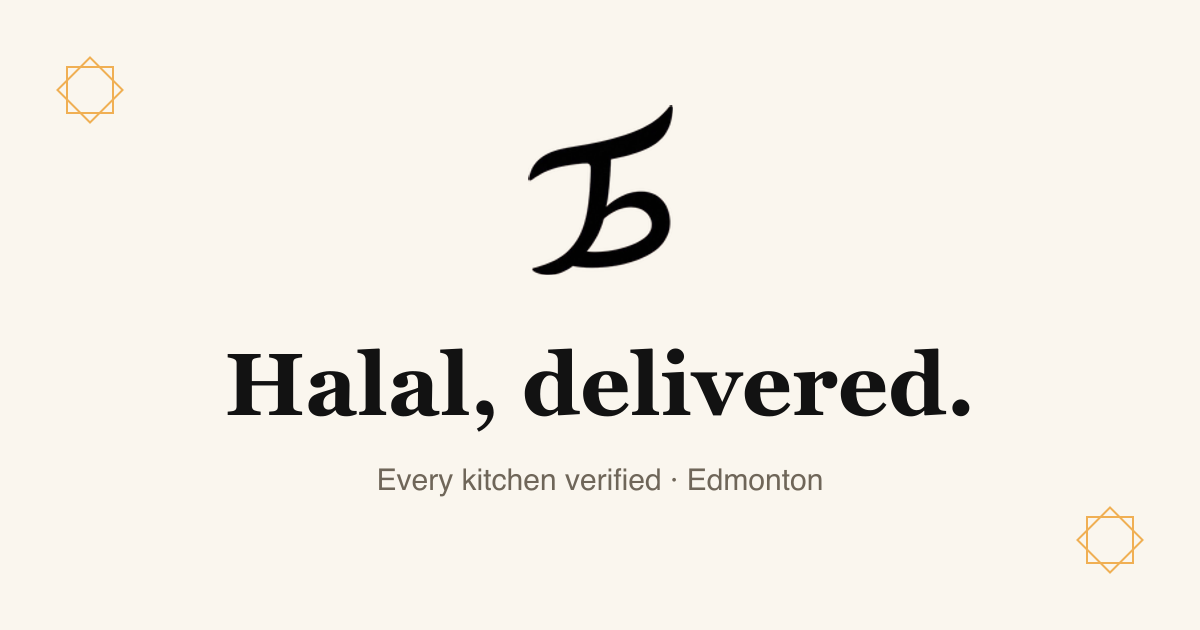
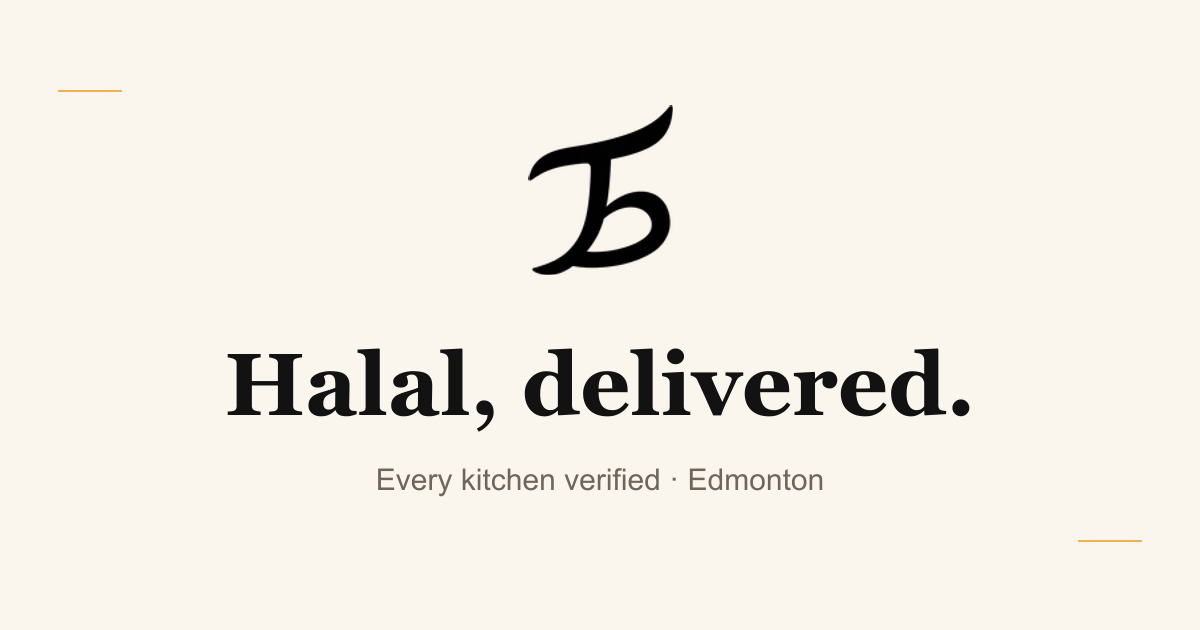
refactor(brand): retire the khatam star for a verification seal and a gold rule
The eight-pointed star was carrying two unrelated jobs and doing neither
well. In VerifiedBadge, restaurant tiles, /how-we-verify and TrustGap it
stood for "Taeam Verified", but an abstract star tells a visitor nothing
about whether a kitchen was checked. In the footer, error pages, account,
track and the section dividers it was pure ornament.

Split it in two. Seal is a check inside a ring and is used only where
something has actually been verified or affirmed; it stays readable down
to the 12px badge size, which the star did not. Rule is a short gold bar
for the decorative slots, and the Divider now breaks its hairline with a
gold segment instead of a glyph.

FiltersSheet got neither: the star there was a panel header icon on a
Filters sheet, so it becomes Phosphor's SlidersHorizontal, which is what
it was always miming.

The og.png share card had the star baked into both corners. Regenerated
from scripts/make-og.mjs with the same gold rule. That card still sets
its headline in Georgia, which contradicts the serif purge everywhere
else on the site; left alone here since it is a separate decision.

diff --git a/src/components/Pattern.tsx b/src/components/Pattern.tsx
@@ -1,48 +1,67 @@
 import { cn } from "@/lib/cn";
 
 /**
- * Khatam (eight-pointed star) drawn as two overlapping squares — the one
- * geometric motif the site is allowed. Used small, in outline, sparingly.
+ * The verification mark: a check inside a ring.
+ *
+ * This replaces the old khatam (eight-pointed star), which was doing two
+ * unrelated jobs at once — standing in for "Taeam Verified" and acting as a
+ * decorative flourish — and was not legible as either. An abstract star never
+ * told anyone a kitchen had been checked; a check does, and it survives being
+ * shrunk to the 12px badge size.
+ *
+ * Use it ONLY where something has actually been verified or affirmed. For
+ * decoration, use <Rule>.
  */
-export function Khatam({
+export function Seal({
   className,
-  strokeWidth = 1.2,
+  strokeWidth = 1.6,
 }: {
   className?: string;
   strokeWidth?: number;
 }) {
   return (
     <svg viewBox="0 0 24 24" fill="none" aria-hidden className={className}>
-      <rect
-        x="5.2"
-        y="5.2"
-        width="13.6"
-        height="13.6"
+      <circle
+        cx="12"
+        cy="12"
+        r="10"
         stroke="currentColor"
         strokeWidth={strokeWidth}
       />
-      <rect
-        x="5.2"
-        y="5.2"
-        width="13.6"
-        height="13.6"
+      <path
+        d="M7.6 12.3 L10.6 15.3 L16.4 9"
         stroke="currentColor"
-        strokeWidth={strokeWidth}
-        transform="rotate(45 12 12)"
+        strokeWidth={strokeWidth * 1.15}
+        strokeLinecap="round"
+        strokeLinejoin="round"
       />
     </svg>
   );
 }
 
-/** A hairline section divider with a single khatam at its centre. */
+/**
+ * The decorative accent: a short gold rule.
+ *
+ * Everywhere the khatam was pure ornament (footer, error pages, section
+ * intros), a rule carries the same weight without pretending to be a symbol.
+ * Width comes from the caller so it can sit inline in a text row or stand
+ * alone above a heading.
+ */
+export function Rule({ className }: { className?: string }) {
+  return (
+    <span
+      aria-hidden
+      className={cn("block h-px w-6 shrink-0 bg-current", className)}
+    />
+  );
+}
+
+/** A hairline section divider, broken by a short gold segment at its centre. */
 export function Divider({ className }: { className?: string }) {
   return (
-    <div
-      aria-hidden
-      className={cn("flex items-center gap-4 text-gold", className)}
-    >
+    <div aria-hidden className={cn("flex items-center gap-4", className)}>
       <span className="h-px flex-1 bg-cream-line" />
-      <Khatam className="h-4 w-4 opacity-70" />
+      <span className="h-px w-10 bg-gold" />
       <span className="h-px flex-1 bg-cream-line" />
     </div>
   );

diff --git a/src/app/how-we-verify/page.tsx b/src/app/how-we-verify/page.tsx
@@ -6,7 +6,7 @@ import { Header } from "@/components/Header";
 import { Eyebrow } from "@/components/Eyebrow";
 import { Reveal } from "@/components/Reveal";
 import { TransitionLink } from "@/components/transition/PageTransition";
-import { Khatam } from "@/components/Pattern";
+import { Seal } from "@/components/Pattern";
 import { SEALED, orderHref } from "@/lib/launch";
 import { JoinWaitlistButton } from "@/components/JoinWaitlistButton";
 
@@ -171,7 +171,7 @@ export default function HowWeVerifyPage() {
             </div>
             <div className="rounded-3xl bg-noir p-6 text-white sm:p-7">
               <div className="mb-4 flex items-center gap-2">
-                <Khatam className="h-4 w-4 text-gold-bright" />
+                <Seal className="h-4 w-4 text-gold-bright" />
                 <span className="text-[11px] font-bold uppercase tracking-[0.14em] text-white/80">
                   Taeam Verified
                 </span>
@@ -239,7 +239,7 @@ export default function HowWeVerifyPage() {
               <Reveal key={card.title} delay={i * 90}>
                 <div className="h-full rounded-3xl border border-noir-line bg-noir-soft p-8">
                   <div className="flex items-center gap-2">
-                    <Khatam className="h-5 w-5 text-gold-bright" />
+                    <Seal className="h-5 w-5 text-gold-bright" />
                     <h3 className="font-semibold text-gold-bright">
                       {card.title}
                     </h3>

diff --git a/src/components/marketing/TrustGap.tsx b/src/components/marketing/TrustGap.tsx
@@ -1,6 +1,6 @@
 import Image from "next/image";
 import Link from "next/link";
-import { Khatam } from "@/components/Pattern";
+import { Seal } from "@/components/Pattern";
 import { Reveal } from "@/components/Reveal";
 
 /**
@@ -88,7 +88,7 @@ export function TrustGap() {
         {/* Taeam's answer */}
         <Reveal>
           <div className="mt-14 flex items-start gap-4 border-t border-noir-line pt-10">
-            <Khatam className="mt-1.5 h-6 w-6 shrink-0 text-gold-bright" />
+            <Seal className="mt-1.5 h-6 w-6 shrink-0 text-gold-bright" />
             <p className="max-w-2xl font-black uppercase tracking-tight text-2xl leading-snug sm:text-3xl">
               Taeam shows the full breakdown, before you order. Here is what that
               means.
@@ -128,7 +128,7 @@ export function TrustGap() {
             </div>
             <div className="rounded-3xl border border-noir-line bg-noir-soft p-6 sm:p-7">
               <div className="mb-4 flex items-center gap-2">
-                <Khatam className="h-4 w-4 text-gold-bright" />
+                <Seal className="h-4 w-4 text-gold-bright" />
                 <span className="text-[11px] font-bold uppercase tracking-[0.14em] text-white/80">
                   Taeam Verified
                 </span>

diff --git a/src/components/browse/RestaurantTile.tsx b/src/components/browse/RestaurantTile.tsx
@@ -5,7 +5,7 @@ import { openStatus } from "@/lib/hours";
 import { etaLabel, money } from "@/lib/format";
 import { distanceLabel } from "@/lib/geo";
 import { verificationLabel } from "@/components/VerifiedBadge";
-import { Khatam } from "@/components/Pattern";
+import { Seal } from "@/components/Pattern";
 import type { Restaurant } from "@/lib/types";
 import { cn } from "@/lib/cn";
 
@@ -57,7 +57,7 @@ export function RestaurantTile({
         )}
 
         {/* Trust badge — the thing the big platforms can't show. Same treatment
-            as <VerifiedBadge> (Khatam icon, gap, weight); only the background
+            as <VerifiedBadge> (Seal icon, gap, weight); only the background
             opacity differs so it stays legible over the photo. */}
         {trust && (
           <span
@@ -68,7 +68,7 @@ export function RestaurantTile({
                 : "bg-cream/90 text-ink-mute",
             )}
           >
-            <Khatam className="h-3 w-3" strokeWidth={1.8} />
+            <Seal className="h-3 w-3" strokeWidth={1.8} />
             {verified ? "Verified" : "Halal"}
           </span>
         )}

diff --git a/src/components/browse/FiltersSheet.tsx b/src/components/browse/FiltersSheet.tsx
@@ -1,8 +1,7 @@
 "use client";
 
 import { useState } from "react";
-import { X, Hand, Gear, ArrowsLeftRight, CheckCircle } from "@phosphor-icons/react";
-import { Khatam } from "@/components/Pattern";
+import { X, Hand, Gear, ArrowsLeftRight, CheckCircle, SlidersHorizontal } from "@phosphor-icons/react";
 import { type HalalFilter, EMPTY_HALAL_FILTER } from "@/lib/halal-filter";
 import { QUICK_FILTERS } from "@/lib/collections";
 import { useModalDialog } from "@/lib/useModalDialog";
@@ -83,7 +82,7 @@ function FiltersDialog({
         <div className="flex items-start justify-between">
           <div className="flex items-center gap-3">
             <span className="flex h-10 w-10 items-center justify-center rounded-xl bg-gold/15 text-gold-deep">
-              <Khatam className="h-5 w-5" strokeWidth={1.8} />
+              <SlidersHorizontal className="h-5 w-5" weight="bold" />
             </span>
             <div>
               <h2 className="text-lg font-black uppercase tracking-tight text-ink">Filters</h2>

diff --git a/src/app/restaurant/[id]/page.tsx b/src/app/restaurant/[id]/page.tsx
@@ -12,7 +12,7 @@ import {
 } from "@phosphor-icons/react/dist/ssr";
 import { Footer } from "@/components/Footer";
 import { Header } from "@/components/Header";
-import { Khatam } from "@/components/Pattern";
+import { Seal } from "@/components/Pattern";
 import { MenuBrowser } from "@/components/menu/MenuBrowser";
 import { VerifiedBadge, slaughterLabel } from "@/components/VerifiedBadge";
 import { getMenu, getRestaurant } from "@/lib/data";
@@ -179,7 +179,7 @@ export default async function RestaurantPage({ params }: Params) {
               <div className="mt-5 flex flex-col gap-2 border-t border-cream-line pt-4 text-sm text-ink-mute sm:flex-row sm:items-center sm:gap-6">
                 {halal && (
                   <span className="inline-flex items-center gap-2">
-                    <Khatam className="h-4 w-4 text-gold-deep" strokeWidth={1.6} />
+                    <Seal className="h-4 w-4 text-gold-deep" strokeWidth={1.6} />
                     {halal}
                   </span>
                 )}

diff --git a/src/components/VerifiedBadge.tsx b/src/components/VerifiedBadge.tsx
@@ -1,6 +1,6 @@
 import { cn } from "@/lib/cn";
 import type { Restaurant } from "@/lib/types";
-import { Khatam } from "./Pattern";
+import { Seal } from "./Pattern";
 
 export function verificationLabel(status: string | null): string | null {
   switch (status) {
@@ -24,7 +24,7 @@ export function slaughterLabel(r: Restaurant): string | null {
 
 /**
  * The halal-transparency badge — the thing the big platforms can't show.
- * Gold khatam for restaurants Taeam verified ourselves; quiet outline for
+ * Gold seal for restaurants Taeam verified ourselves; quiet outline for
  * owner declarations.
  */
 export function VerifiedBadge({
@@ -52,7 +52,7 @@ export function VerifiedBadge({
         className,
       )}
     >
-      <Khatam className="h-3 w-3" strokeWidth={1.8} />
+      <Seal className="h-3 w-3" strokeWidth={1.8} />
       {label}
     </span>
   );

diff --git a/src/app/track/page.tsx b/src/app/track/page.tsx
@@ -7,7 +7,7 @@ import { Suspense, useEffect, useMemo, useRef, useState } from "react";
 import { CheckCircle, Phone } from "@phosphor-icons/react";
 import { Footer } from "@/components/Footer";
 import { Header } from "@/components/Header";
-import { Khatam } from "@/components/Pattern";
+import { Rule } from "@/components/Pattern";
 import { useAuth } from "@/components/auth/AuthContext";
 import { LiveMap, type MapPin } from "@/components/track/LiveMap";
 import { requestRoute } from "@/lib/api";
@@ -352,7 +352,7 @@ function TrackInner() {
             </div>
 
             <p className="flex items-center gap-2 text-xs text-ink-mute">
-              <Khatam className="h-3 w-3 text-gold" strokeWidth={1.8} />
+              <Rule className="w-4 text-gold" />
               Updates live, no need to refresh.
             </p>
           </div>

diff --git a/src/app/about/page.tsx b/src/app/about/page.tsx
@@ -3,7 +3,7 @@ import Image from "next/image";
 import Link from "next/link";
 import { Footer } from "@/components/Footer";
 import { Header } from "@/components/Header";
-import { Divider, Khatam } from "@/components/Pattern";
+import { Divider, Rule } from "@/components/Pattern";
 import { Reveal } from "@/components/Reveal";
 import { SEALED, orderHref } from "@/lib/launch";
 import { JoinWaitlistButton } from "@/components/JoinWaitlistButton";
@@ -111,7 +111,7 @@ export default function AboutPage() {
 
         <Reveal>
           <div className="mt-14 rounded-3xl bg-ink p-8 text-cream sm:p-10">
-            <Khatam className="h-6 w-6 text-gold" />
+            <Rule className="w-10 text-gold" />
             <h2 className="mt-4 font-black uppercase tracking-tight text-2xl sm:text-3xl">
               Hungry already?
             </h2>

diff --git a/src/components/Footer.tsx b/src/components/Footer.tsx
@@ -1,7 +1,7 @@
 import Image from "next/image";
 import Link from "next/link";
 import { Eyebrow } from "@/components/Eyebrow";
-import { Khatam } from "./Pattern";
+import { Rule } from "./Pattern";
 import { SEALED } from "@/lib/launch";
 
 /**
@@ -234,7 +234,7 @@ export function Footer() {
 
         <div className="mt-14 flex flex-col items-start gap-4 border-t border-cream/10 pt-6 text-xs text-cream/45 sm:flex-row sm:items-center sm:justify-between">
           <span className="inline-flex items-center gap-2.5">
-            <Khatam className="h-3.5 w-3.5 text-gold-bright/60" />
+            <Rule className="w-4 text-gold-bright/60" />
             © 2026 Taeam Technologies Inc. · Edmonton, Alberta · All rights reserved.
           </span>
           <div className="flex flex-wrap items-center gap-x-6 gap-y-2">

diff --git a/src/app/account/page.tsx b/src/app/account/page.tsx
@@ -6,7 +6,7 @@ import { useRouter } from "next/navigation";
 import { Copy, Check, SignOut, Crown, ArrowRight } from "@phosphor-icons/react";
 import { AccountShell } from "@/components/account/AccountShell";
 import { useAuth } from "@/components/auth/AuthContext";
-import { Khatam } from "@/components/Pattern";
+import { Rule } from "@/components/Pattern";
 
 export default function AccountPage() {
   const { user, profile, signOut } = useAuth();
@@ -138,7 +138,7 @@ export default function AccountPage() {
       </div>
 
       <p className="mt-10 flex items-center gap-2 text-xs text-ink-mute">
-        <Khatam className="h-3 w-3 text-gold" strokeWidth={1.8} />
+        <Rule className="w-4 text-gold" />
         Same account as the Taeam app, everything stays in sync.
       </p>
     </AccountShell>

diff --git a/src/app/not-found.tsx b/src/app/not-found.tsx
@@ -1,7 +1,7 @@
 import Link from "next/link";
 import { Footer } from "@/components/Footer";
 import { Header } from "@/components/Header";
-import { Khatam } from "@/components/Pattern";
+import { Rule } from "@/components/Pattern";
 import { SEALED, orderHref } from "@/lib/launch";
 import { JoinWaitlistButton } from "@/components/JoinWaitlistButton";
 
@@ -10,7 +10,7 @@ export default function NotFound() {
     <>
       <Header />
       <main className="flex min-h-[70svh] flex-col items-center justify-center px-4 pt-20 text-center">
-        <Khatam className="h-8 w-8 text-gold" />
+        <Rule className="w-12 text-gold" />
         <h1 className="mt-6 font-black uppercase tracking-tight text-4xl text-ink">
           This plate is empty.
         </h1>
